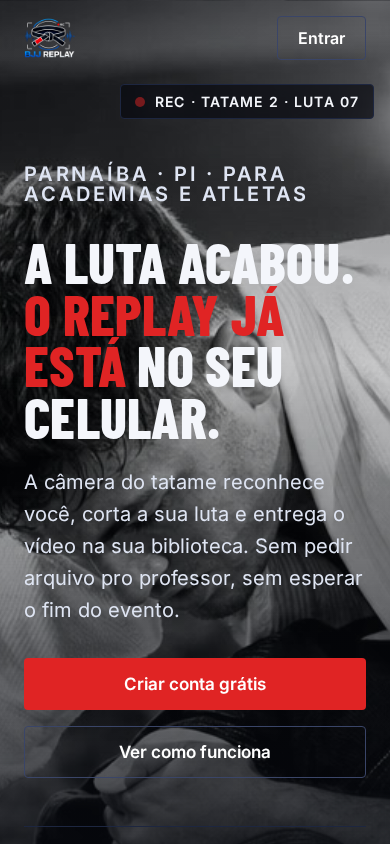
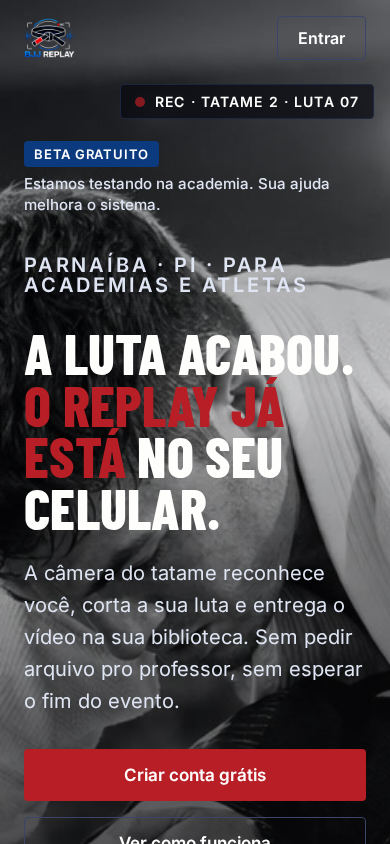
Design: proposta da home na paleta e no selo Beta gratuito do briefing do Lucas (28/10); sai Planos/Ranking; CTA volta pra dobra em 1280x800

diff --git a/design/proposta/index.html b/design/proposta/index.html
@@ -8,8 +8,8 @@
 <link href="https://fonts.googleapis.com/css2?family=Barlow+Condensed:wght@600;700;800&family=Inter:wght@400;500;600&display=swap" rel="stylesheet">
 <style>
 :root{
-  --bg:#07090f; --bg2:#0d1220; --line:#1d2640; --tx:#f4f6fb; --mut:#a9b3c9;
-  --red:#e02424; --red-d:#b91c1c; --blue:#2f6bff;
+  --bg:#0A0A0C; --bg2:#0d1220; --line:#1d2640; --tx:#FEFEFD; --mut:#a9b3c9;
+  --red:#B71E25; --red-d:#961820; --blue:#0B3A7E;
   --s1:8px; --s2:16px; --s3:24px; --s4:32px; --s5:48px; --s6:80px; --s7:128px;
   --display:'Barlow Condensed',Impact,sans-serif; --body:Inter,system-ui,sans-serif;
 }
@@ -18,9 +18,11 @@ body{background:var(--bg);color:var(--tx);font:400 17px/1.6 var(--body);-webkit-
 a{color:inherit;text-decoration:none}
 .wrap{max-width:1200px;margin:0 auto;padding:0 var(--s3)}
 h1,h2,h3{font-family:var(--display);font-weight:800;text-transform:uppercase;line-height:.92;letter-spacing:.005em}
-h1{font-size:clamp(56px,10vw,152px)}
+h1{font-size:clamp(56px,8.5vw,152px)}
 h2{font-size:clamp(40px,6vw,80px)}
 h3{font-size:28px;line-height:1}
+.beta{display:inline-flex;flex-wrap:wrap;gap:6px 12px;align-items:center;margin-bottom:var(--s2);font:500 15px/1.4 var(--body);color:#dfe5f3}
+.beta b{background:var(--blue);color:#fff;padding:4px 10px;border-radius:4px;font-weight:700;letter-spacing:.06em;text-transform:uppercase;font-size:13px}
 .tag{font:600 14px/1 var(--body);letter-spacing:.14em;text-transform:uppercase;color:var(--mut)}
 .btn{display:inline-flex;align-items:center;gap:10px;min-height:52px;padding:0 28px;border-radius:4px;font:600 17px var(--body);background:var(--red);color:#fff}
 .btn:hover{background:var(--red-d)}
@@ -92,12 +94,13 @@ footer .wrap{display:flex;justify-content:space-between;gap:var(--s2);flex-wrap:
 </head>
 <body>
 <nav><div class="wrap"><img src="img/logo.png" alt="BJJ Replay">
-<ul><li>Como funciona</li><li>Biblioteca</li><li>Ranking</li><li>Planos</li><li>FAQ</li></ul>
+<ul><li>Como funciona</li><li>Biblioteca</li><li>FAQ</li></ul>
 <a class="btn ghost" style="min-height:44px;padding:0 20px;font-size:16px" href="#">Entrar</a></div></nav>
 
 <header class="hero">
   <div class="rec"><i></i> REC · TATAME 2 · LUTA 07</div>
   <div class="wrap">
+    <div class="beta"><b>Beta gratuito</b> Estamos testando na academia. Sua ajuda melhora o sistema.</div>
     <p class="tag">Parnaíba · PI · para academias e atletas</p>
     <h1>A luta acabou.<br><span>O replay já está</span> no seu celular.</h1>
     <p>A câmera do tatame reconhece você, corta a sua luta e entrega o vídeo na sua biblioteca. Sem pedir arquivo pro professor, sem esperar o fim do evento.</p>
@@ -105,7 +108,7 @@ footer .wrap{display:flex;justify-content:space-between;gap:var(--s2);flex-wrap:
     <div class="proof">
       <div><b>1 toque</b><span>para ver a sua luta</span></div>
       <div><b>HD</b><span>direto da nuvem</span></div>
-      <div><b>Free</b><span>plano grátis para começar</span></div>
+      <div><b>Beta</b><span>grátis durante o teste</span></div>
     </div>
   </div>
 </header>

diff --git a/design/DESIGN.md b/design/DESIGN.md
@@ -1,7 +1,7 @@
 # BJJ Replay — reformulação da home (04/11/2026)
 Cliente: Lucas Portela (BJJ Replay, Parnaíba-PI). Uso: atleta/aluno no celular, vê o replay da luta. Ação principal: criar conta grátis.
 Pedido: Josué 04/11 (via gerente) — "reformulação design do bjj, sem cara de template".
-Do que já está no ar: logo, vermelho #dc2626, fundo escuro, Inter, fotos P&B de jiu-jitsu (front/public/images/landing/ai-community-*).
+Do que já está no ar: logo, fundo escuro, Inter, fotos P&B. Paleta do BRIEFING_FRONT_BETA do Lucas (28/10): azul-kimono #0B3A7E, preto #0A0A0C, vermelho #B71E25, branco #FEFEFD + selo "Beta gratuito" no topo, sem Planos/Ranking (beta sem cobrança, sem ranking público). Antes: vermelho #dc2626, fundo escuro, Inter, fotos P&B de jiu-jitsu (front/public/images/landing/ai-community-*).
 Achados do site atual: hero vazio (texto sobre fundo escuro sem imagem), e vários arquivos `bjj-*.jpg` da pasta de imagens são stock sem relação (jeans, praia, rostos) — conferir se aparecem em alguma seção.
 Direção escolhida: "transmissão de luta" — foto P&B grande, título condensado (Barlow Condensed, nova) em caixa alta, 1 vermelho de destaque, selo REC.
 Pendente: preços/planos (valores não aparecem na renderização; manter seção atual), depoimentos reais, fotos reais do evento (hoje são imagens de IA já usadas no site).
